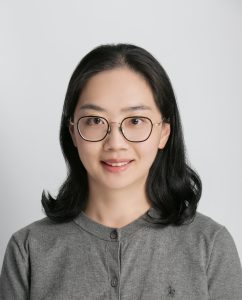
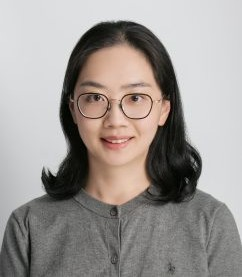
Updated Kun and Olivia's pic

diff --git a/src/components/TeamPage.tsx b/src/components/TeamPage.tsx
@@ -63,12 +63,12 @@ export default function TeamPage() {
     { id: 2, nameKey: "team.name.DavidChen", image: "/members/2. David Chen.jpg", titleKey: "team.title.DavidChen", descriptionKey: "team.bio.DavidChen" },
     { id: 4, nameKey: "team.name.BrentDesruisseaux", image: "/members/3. Brent Desruisseaux.jpg", titleKey: "team.title.BrentDesruisseaux", descriptionKey: "team.bio.BrentDesruisseaux" },
     { id: 3, nameKey: "team.name.AbielKwok", image: "/members/abiel1.JPG", titleKey: "team.title.AbielKwok", descriptionKey: "" },
-    { id: 20, nameKey: "team.name.KunDong", image: "/members/ava.jpg", titleKey: "team.title.KunDong", descriptionKey: "" },
+    { id: 20, nameKey: "team.name.KunDong", image: "/members/kun.jpg", titleKey: "team.title.KunDong", descriptionKey: "" },
     { id: 5, nameKey: "team.name.CoreyPoon", image: "/members/4. Corey Poon.jpg", titleKey: "team.title.CoreyPoon", descriptionKey: "team.bio.CoreyPoon" },
     { id: 6, nameKey: "team.name.HowardQu", image: "/members/5. Howard Qu.jpg", titleKey: "team.title.HowardQu", descriptionKey: "team.bio.HowardQu" },
     { id: 7, nameKey: "team.name.FrejaLi", image: "/members/6. Freja Li.jpg", titleKey: "team.title.FrejaLi", descriptionKey: "team.bio.FrejaLi" },
     { id: 8, nameKey: "team.name.NicoleTam", image: "/members/nicole.jpg", titleKey: "team.title.NicoleTam", descriptionKey: "" },
-    { id: 9, nameKey: "team.name.OliviaNicolaides", image: "/members/ava.jpg", titleKey: "team.title.OliviaNicolaides", descriptionKey: "" },
+    { id: 9, nameKey: "team.name.OliviaNicolaides", image: "/members/olivia.JPG", titleKey: "team.title.OliviaNicolaides", descriptionKey: "" },
     { id: 10, nameKey: "team.name.RachelLi", image: "/members/7. Rachel Li.jpg", titleKey: "team.title.RachelLi", descriptionKey: "team.bio.RachelLi" },
     { id: 11, nameKey: "team.name.FarrahYang", image: "/members/8. Farrah Yang.jpg", titleKey: "team.title.FarrahYang", descriptionKey: "team.bio.FarrahYang" },
     { id: 12, nameKey: "team.name.AshleyWong", image: "/members/11. Ashley Wong.jpg", titleKey: "team.title.AshleyWong", descriptionKey: "team.bio.AshleyWong" },
